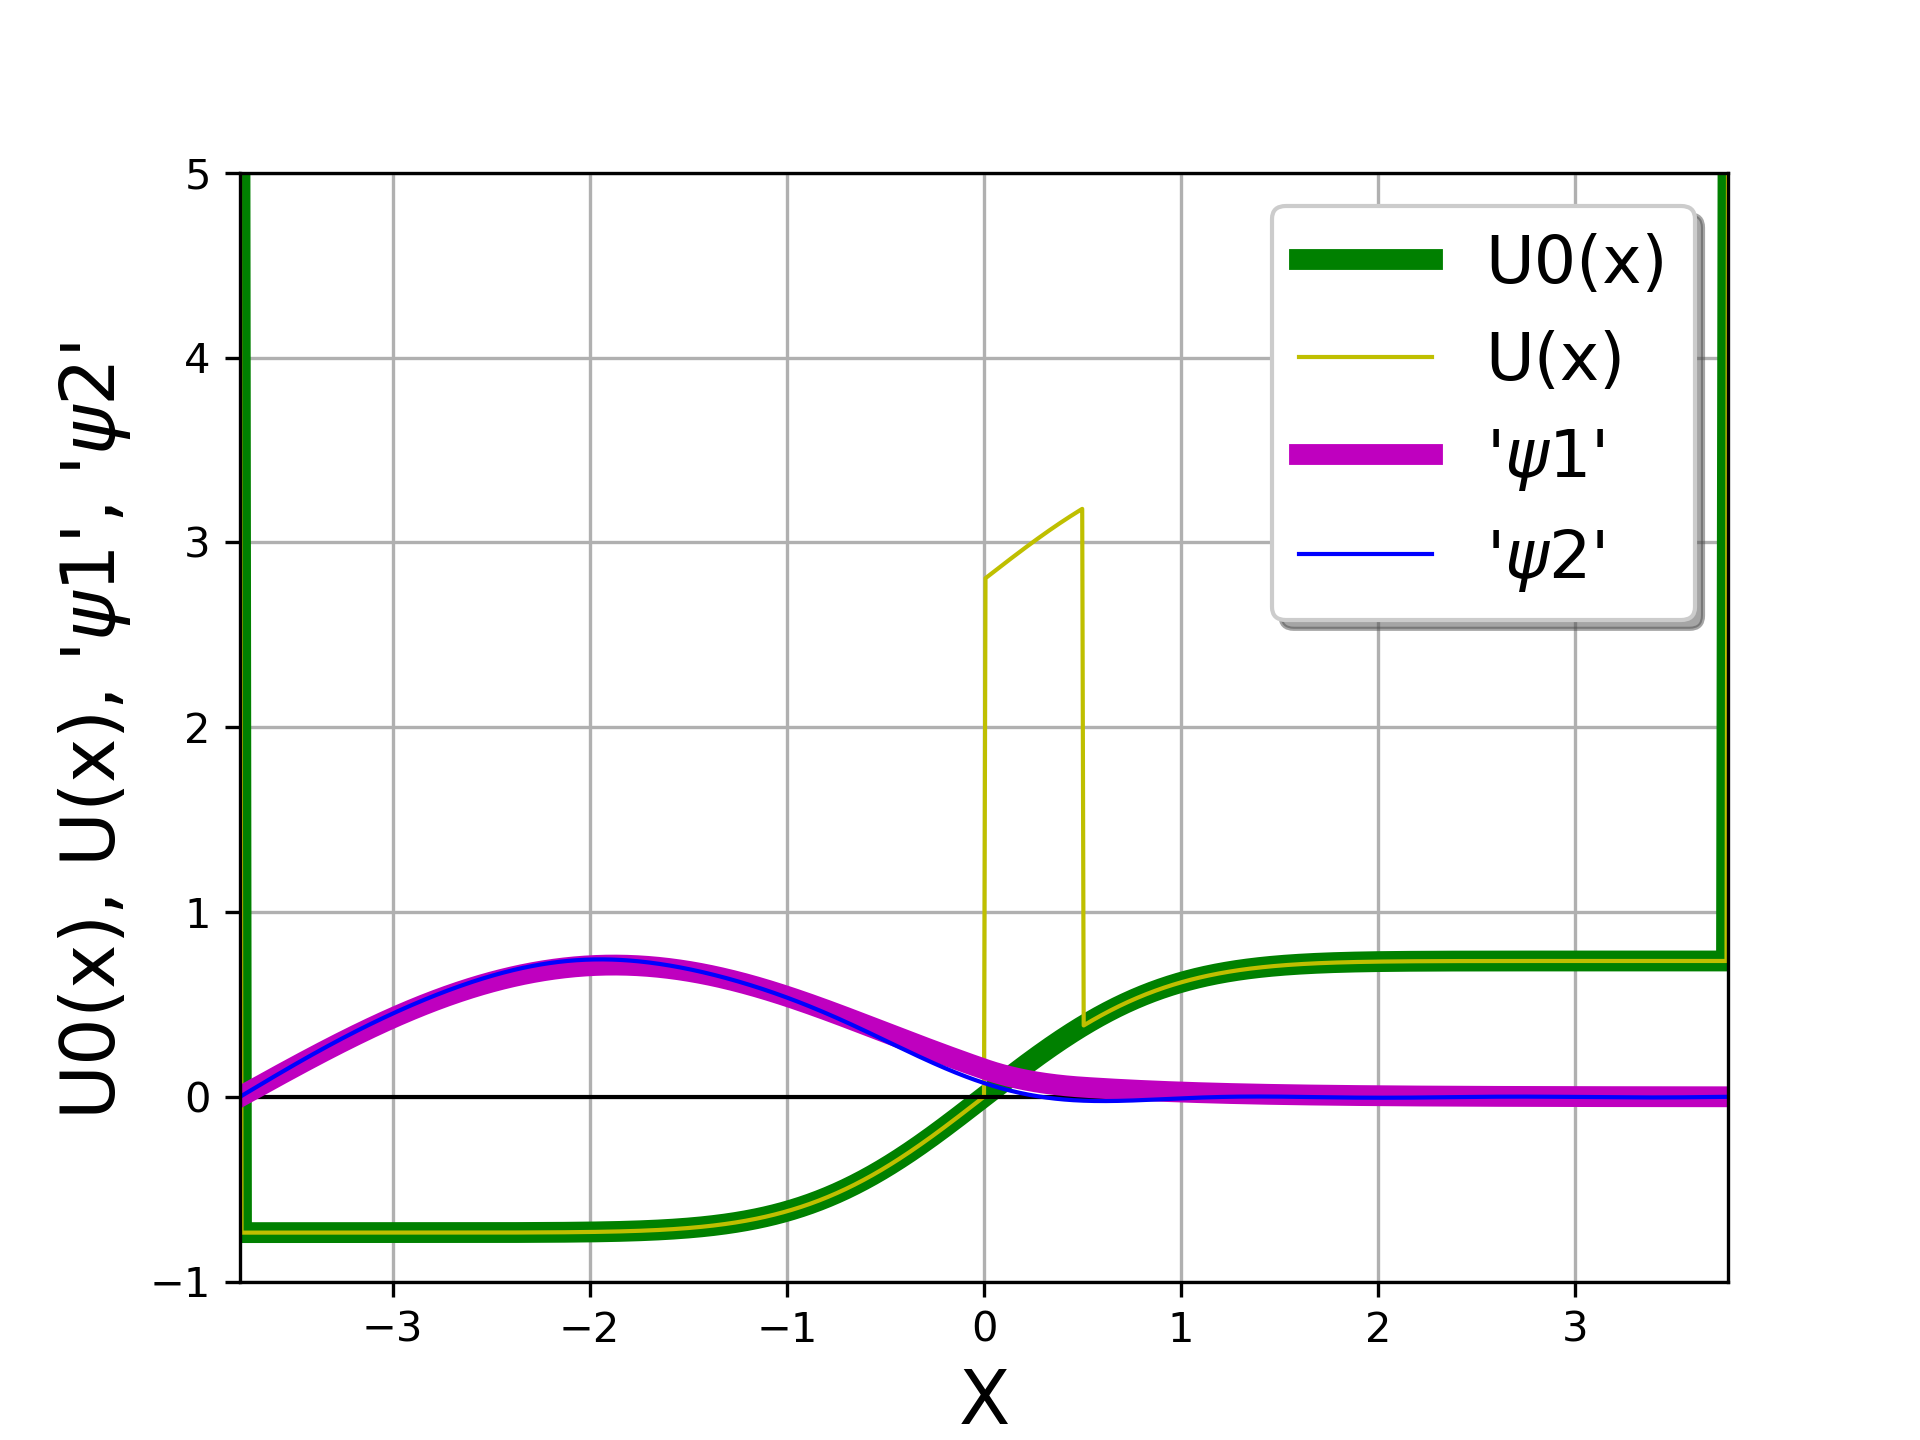
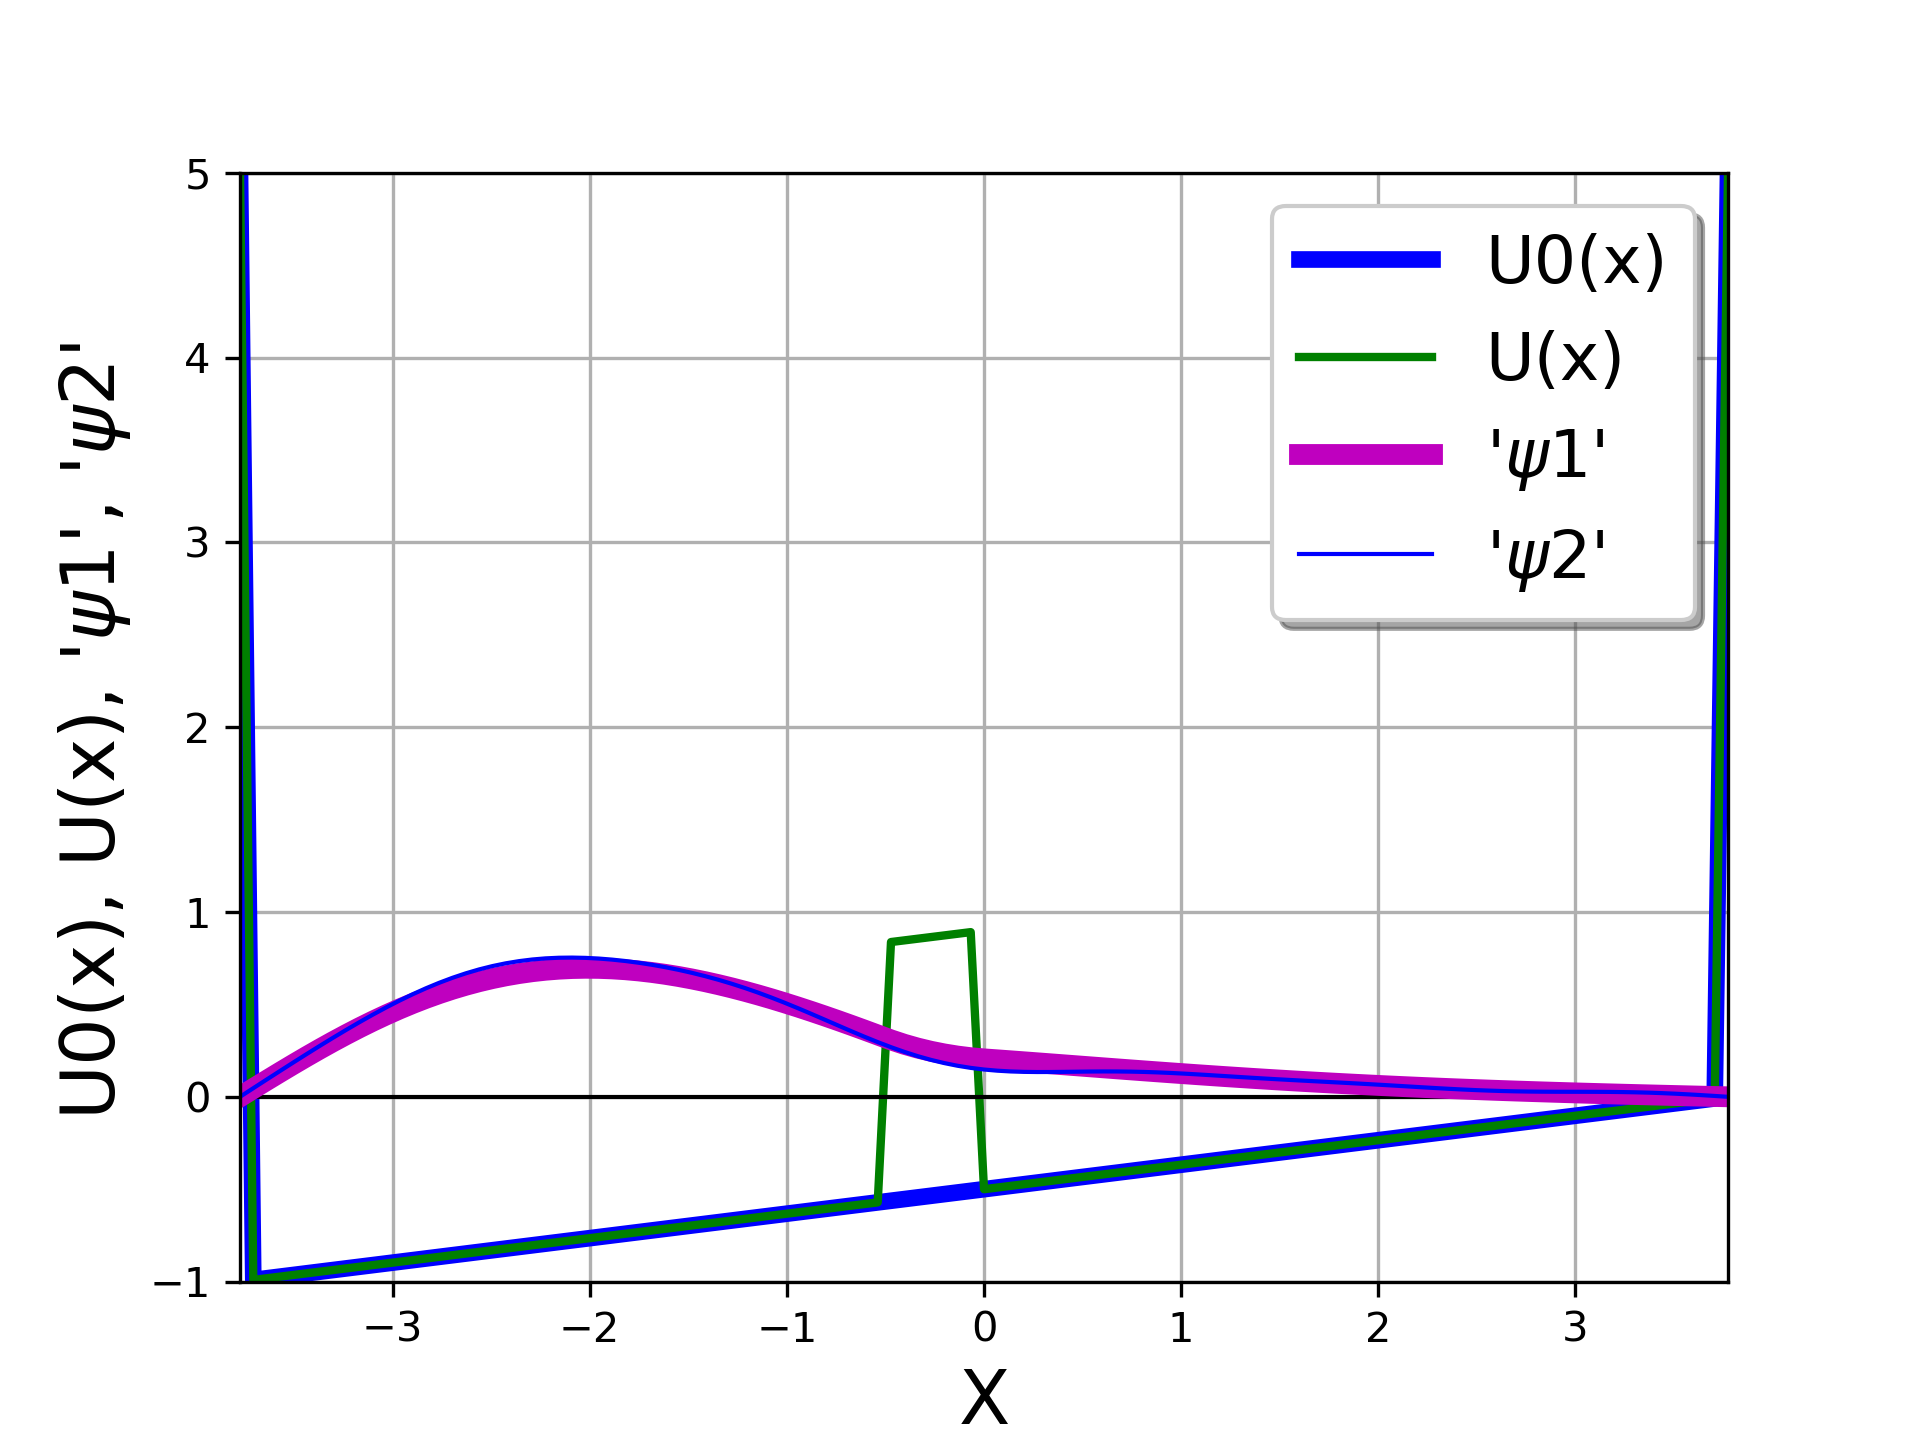
WIP: Actualization for the given problem.

diff --git a/main.py b/main.py
@@ -14,13 +14,14 @@ def convert_angstrom_to_atomic_units(value):
 def convert_electronvolt_to_atomic_units(value):
     return value / 27.212
 
+
 class Pristrelki_method:
     # initial data (atomic units)
     L = convert_angstrom_to_atomic_units(2.0)
     A = -L
     B = +L
     # number of mesh node
-    n = 1001  # odd integer number
+    n = 113  # odd integer number
 
     def __init__(self, fun_U, U0, ne, e2, count_e):
         self.U = fun_U
@@ -101,7 +102,7 @@ class Pristrelki_method:
         f = der1 - der2
         return f
 
-    def m_bis(self, x1, x2, tol):
+    def bisection_method(self, x1, x2, tol):
         while abs(x2 - x1) > tol:
             xr = (x1 + x2) / 2.0
             if self.f_fun(e=x2) * self.f_fun(e=xr) < 0.0:
@@ -131,7 +132,7 @@ class Pristrelki_method:
                 if Log1 and Log2:
                     energy1 = ee[i - 1]
                     energy2 = ee[i]
-                    eval = self.m_bis(energy1, energy2, tol)
+                    eval = self.bisection_method(energy1, energy2, tol)
                     energy.append(eval)
                     coefPsi = self.average_value(self.Psi, self.Psi)
                     self.Psi[:] = self.Psi[:] / math.sqrt(coefPsi[0])
@@ -145,23 +146,26 @@ class Pristrelki_method:
                         break
         return energy, fun_psi
 
+
+
+#############################################################
 V0 = convert_electronvolt_to_atomic_units(20)
 L = convert_angstrom_to_atomic_units(2.0)
 W = 5.0
 A = -L
 B = +L
-n = 1001
+n = 113
 X = np.linspace(A, B, n)  # forward
 
 def fun_U_0(x):
     if (abs(x) < L):
-        return V0 * erf(x)
+        return float((-1 + (x + L) / (2 * L)) if abs(x) < L else W)
     else:
         return W
 
 def fun_U(x):
-    if 0 < x < 0.5:
-        return fun_U_0(x) + 2.8
+    if -0.5 < x < 0.0:
+        return fun_U_0(x) + 1.4
     else:
         return fun_U_0(x)
 
@@ -179,8 +183,8 @@ def get_value_V(psi_l, oper_value, psi_m):
 
 def plot(U0, U, psi1, psi2):
     plt.axis([A, B, -1, W])
-    plt.plot(X, U0, 'g-', linewidth=5.0, label="U0(x)")
-    plt.plot(X, U, 'y-', linewidth=1.0, label="U(x)")
+    plt.plot(X, U0, 'b-', linewidth=4.0, label="U0(x)")
+    plt.plot(X, U, 'g-', linewidth=2.0, label="U(x)")
     Zero = np.zeros(n, dtype=float)
     plt.plot(X, Zero, 'k-', linewidth=1.0)  # abscissa axis
     plt.plot(X, psi1, 'm-', linewidth=5.0, label="'$\psi$1'")
